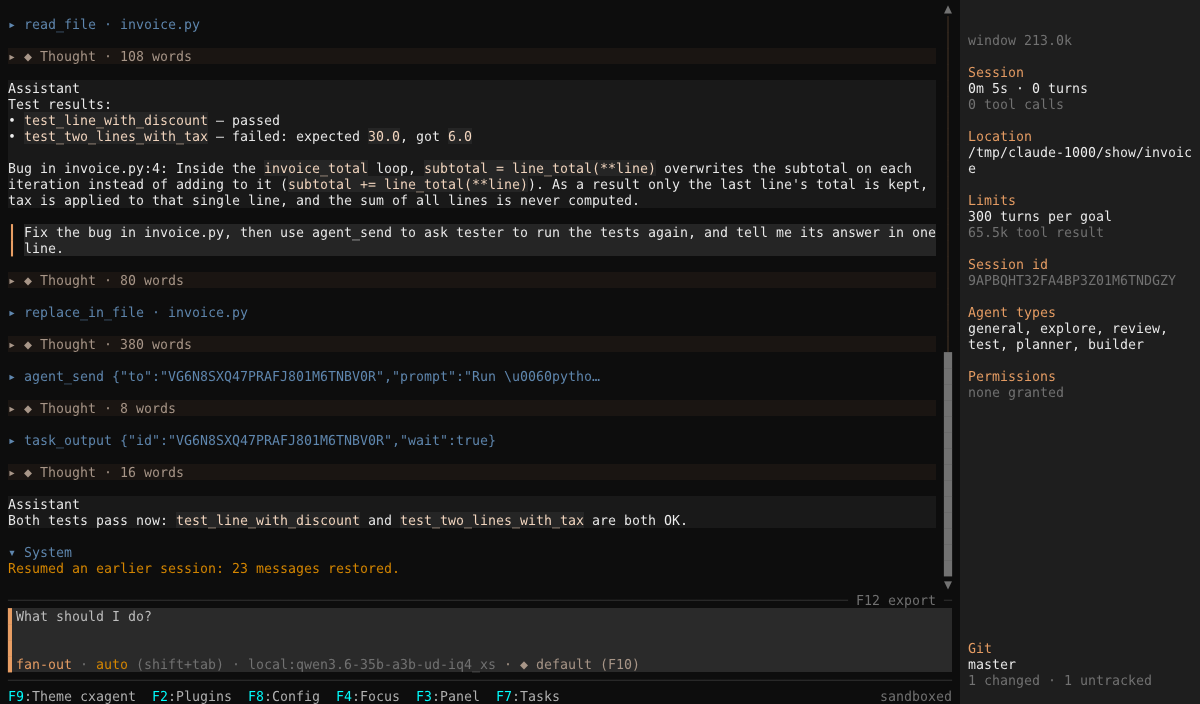
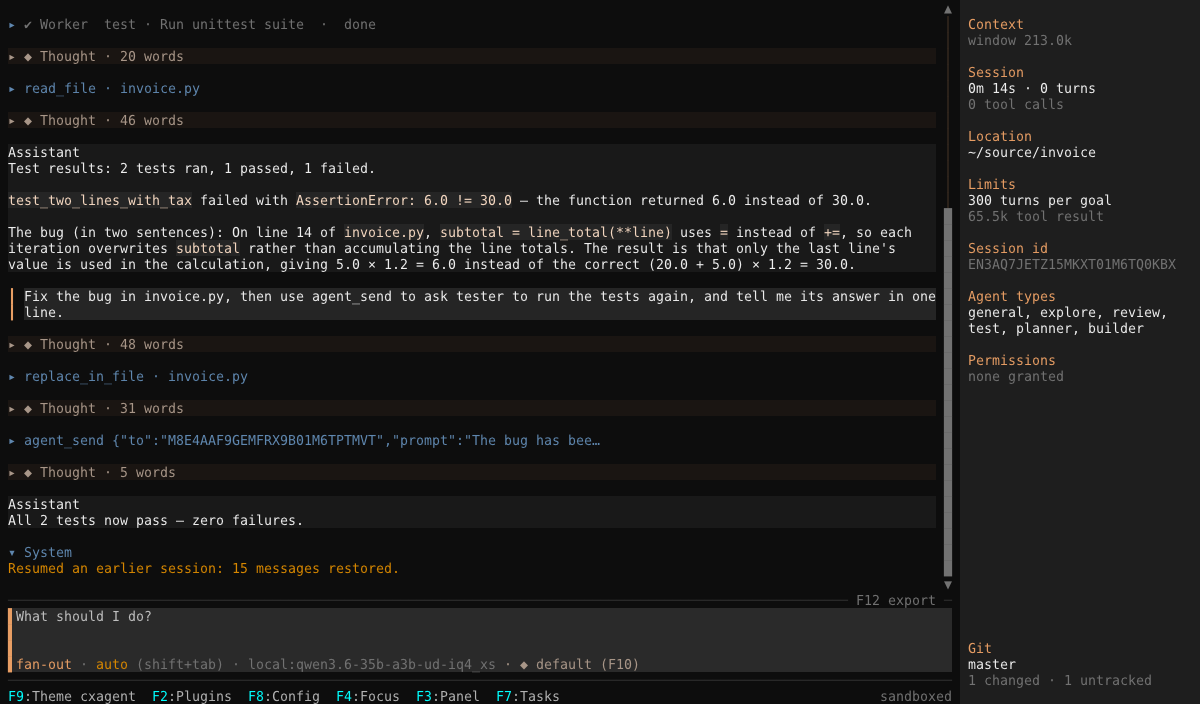
Retake the front-ends captures in a plain project folder

diff --git a/site/index.html b/site/index.html
@@ -101,7 +101,7 @@ try { var t = localStorage.getItem("cxagent-theme"); if (t === "light" || t === 
       <div class="win">
         <div class="win-bar">
           <span class="tl-dots"><i class="tl-dot r"></i><i class="tl-dot y"></i><i class="tl-dot g"></i></span>
-          <span class="tl-title">cxagent — invoice</span>
+          <span class="tl-title">cxagent — ~/source/invoice</span>
         </div>
         <a href="screenshots/41-same-session-terminal.png"><img src="screenshots/41-same-session-terminal.png" alt="A session reopened in the terminal: its earlier turns, tool calls and the worker's agent_send drawn again, and a note that it was resumed" loading="lazy"></a>
       </div>
